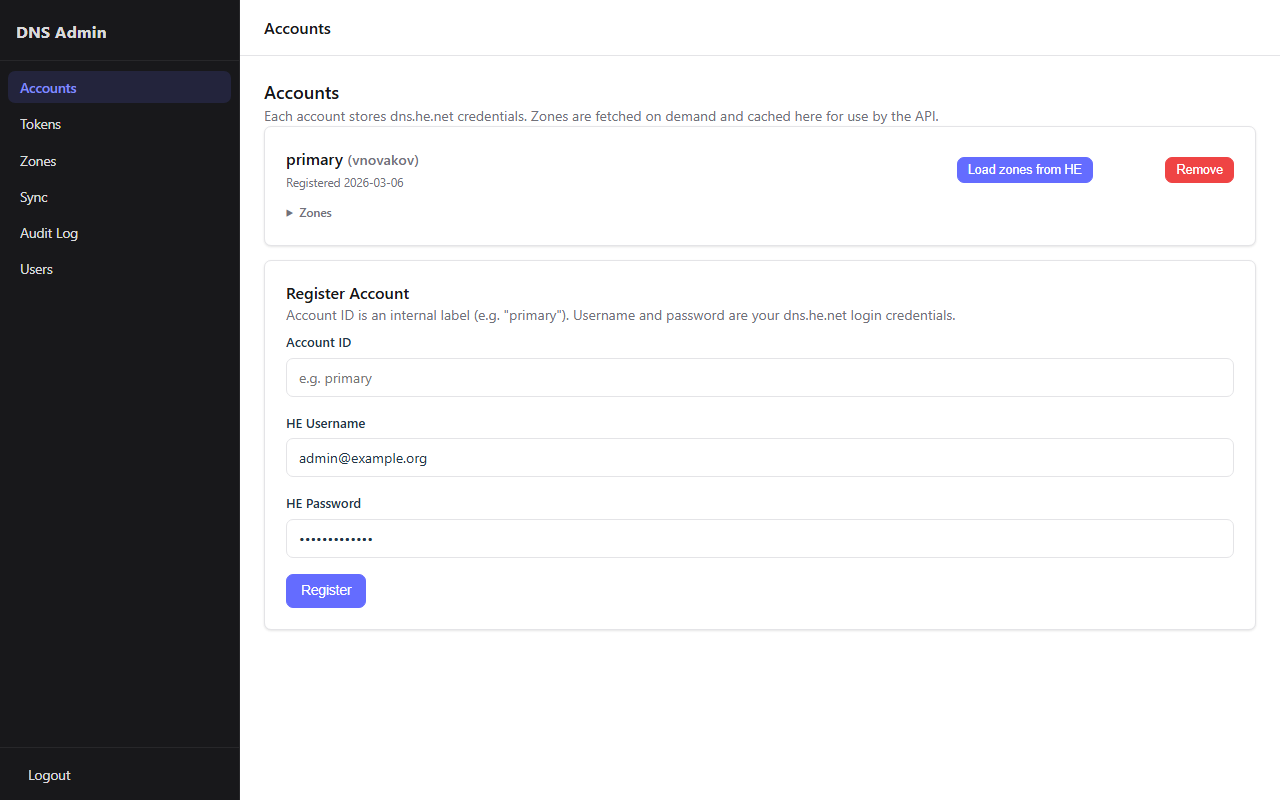
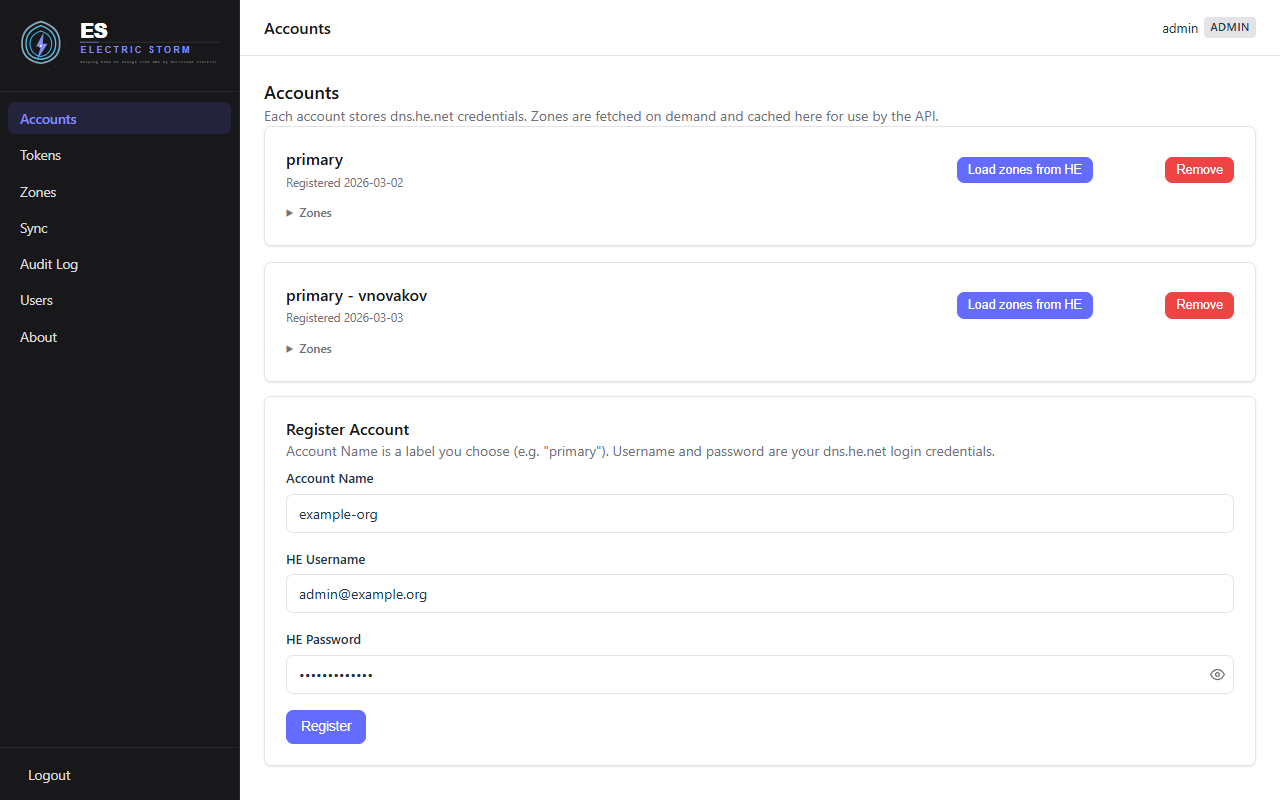
fix(screenshots): remove (vnovakov) username from all portal screenshots
- Update cmd/screenshots/main.go to inject CSS before each shot:
    h3 span.text-muted, .card-header span.text-muted { visibility: hidden }
  This hides the (username) span in both accounts.templ (h3) and
  tokens.templ (.card-header) without affecting layout or other text.
- Retake all 8 screenshots with the masking active — username gone from
  02-accounts, 03-create-account, 04-zones-empty, 05-tokens-list,
  06-token-create, 07-token-issued, 08-token-reveal

diff --git a/cmd/screenshots/main.go b/cmd/screenshots/main.go
@@ -101,7 +101,23 @@ func main() {
 	// settle pauses briefly so CSS transitions finish before the screenshot.
 	settle := func() { time.Sleep(500 * time.Millisecond) }
 
+	// maskUsernames hides the (username) span rendered next to account names.
+	// WHY two selectors:
+	//   accounts.templ renders: <h3>acc.Name <span class="text-muted">(acc.Username)</span></h3>
+	//   tokens.templ renders:   <div class="card-header"><strong>...</strong> <span class="text-muted">(...)</span>
+	//   Both selectors are needed to catch both page layouts.
+	// WHY visibility:hidden (not display:none): keeps layout stable; the blank space
+	//   where the username was becomes plain white — no element reflow.
+	maskUsernames := func() {
+		_, _ = page.Evaluate(`
+			document.querySelectorAll('h3 span.text-muted, .card-header span.text-muted').forEach(el => {
+				el.style.visibility = 'hidden';
+			});
+		`)
+	}
+
 	shot := func(name string) {
+		maskUsernames()
 		settle()
 		path := filepath.Join(*outDir, name)
 		if _, err := page.Screenshot(playwright.PageScreenshotOptions{
